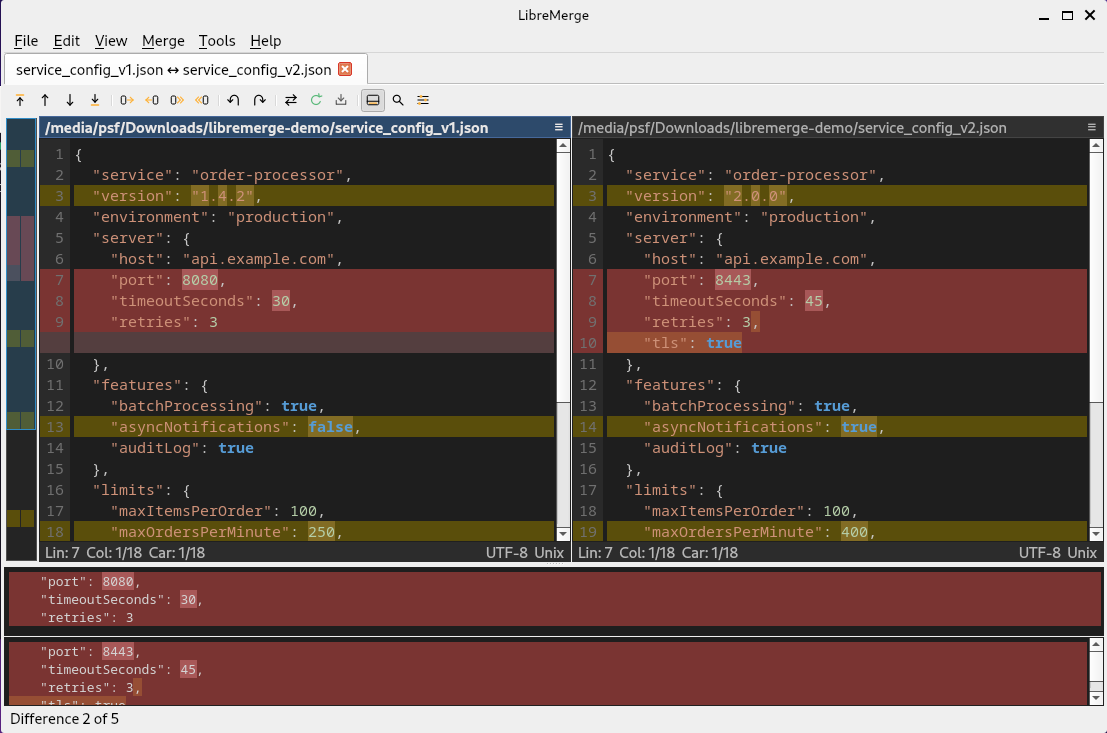
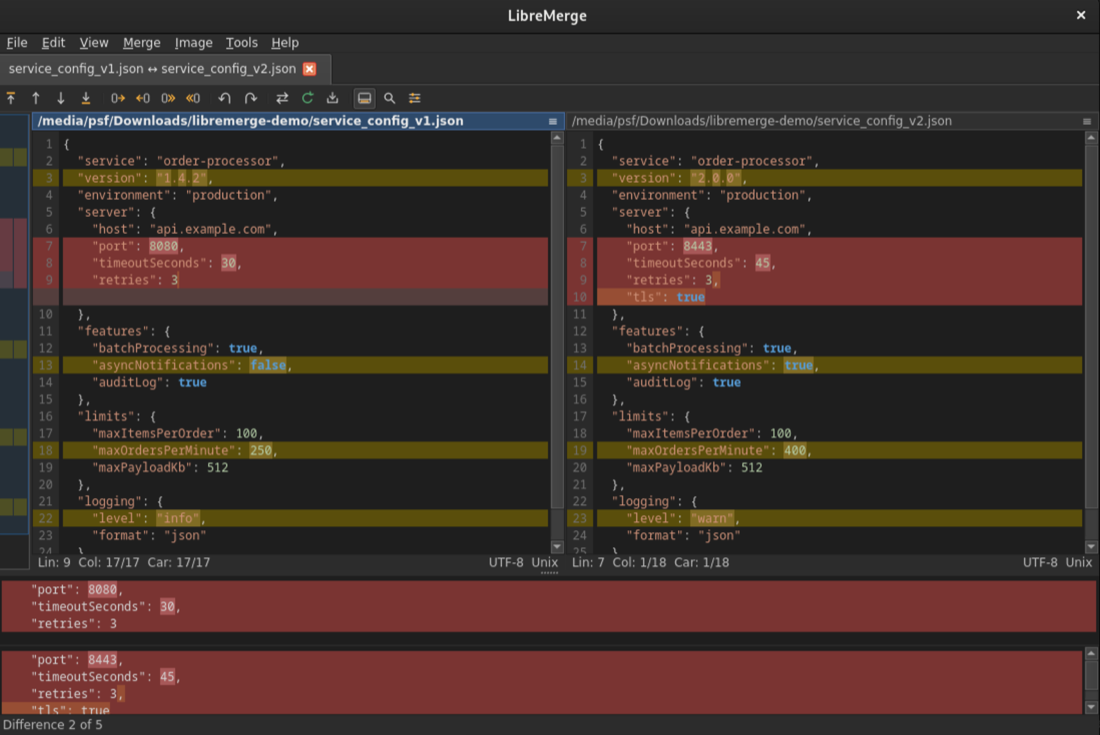
Refresh the README and the Linux screenshot for 0.9.7
- The Debian/GNOME screenshot shows the whole window dark, as the theme
  now paints it; the old one had dark panes under light menus and tabs.
- Features: the theme covers the window and follows GNOME's and KDE's
  dark style; the selection screen verifies paths, completes them and
  opens a lone file against a snapshot of itself; the Options dialog's
  General settings and Message Boxes page.
- Build dependencies gained libarchive, re2c and lemon; the engine suite
  has 383 tests; the .bak switch lives on Options > Backup Files.
- AppStream: the Linux screenshot joins the list.

diff --git a/README.md b/README.md
@@ -20,9 +20,10 @@ LibreMerge reuses the battle-tested comparison engine of [WinMerge](https://winm
 - **Line filters** (regular expressions that mark matching differences as trivial) and **moved block detection**
 - **Find and replace** in the compare panes (⌘F, wrap-around, match case)
 - **Syntax highlighting** for 47 languages, via WinMerge's own parsers
-- **Light and dark themes** (or follow the system), **English and Brazilian Portuguese** interface following the system language
-- Drag & drop files or folders onto the window or the Dock icon; a WinMerge-style "Select Files or Folders" screen with history, read-only flags and swap
+- **Light and dark themes** for the whole window, or follow the system (on Linux, the dark style of GNOME and KDE, picked up as you switch it), chosen under Options > General; **English and Brazilian Portuguese** interface following the system language
+- Drag & drop files or folders onto the window or the Dock icon; a WinMerge-style "Select Files or Folders" screen with history, paths verified as you type, auto completion, read-only flags and swap; a single file opens against a snapshot of itself, to review your own edits
 - Comparison options carried over from WinMerge: ignore whitespace/case/blank lines/EOL/numbers, diff algorithm selection (Myers, minimal, patience, histogram)
+- An **Options dialog laid out like WinMerge's**, with its General settings (close with Esc, preserve file times on save, verify paths, auto completion) and its Message Boxes page, where the "files are identical" notices can be hidden and brought back
 
 | Dark theme | Folder comparison |
 | --- | --- |
@@ -62,12 +63,12 @@ LibreMerge dirA/ dirB/                 # folder compare
 
 ## Build from source (macOS / Linux)
 
-Dependencies: a C++17 compiler, CMake ≥ 3.21, Ninja, Qt 6, POCO, ICU and Boost (headers). On macOS: `brew install cmake ninja qt poco icu4c boost googletest`. On Debian/Ubuntu see the package list in [`.github/workflows`](.github/workflows).
+Dependencies: a C++17 compiler, CMake ≥ 3.21, Ninja, Qt 6, POCO, ICU, Boost (headers), libarchive, re2c and lemon. On macOS: `brew install cmake ninja qt poco icu4c boost googletest re2c lemon libarchive`. On Debian/Ubuntu see the package list in [`.github/workflows`](.github/workflows).
 
 ```sh
 cmake -S . -B build -G Ninja
 cmake --build build
-ctest --test-dir build        # engine test suite (369 tests)
+ctest --test-dir build        # engine test suite (383 tests)
 ./build/app/LibreMerge        # (on macOS: build/app/LibreMerge.app)
 ```
 
@@ -111,7 +112,7 @@ git config --global difftool.libremerge.cmd \
 
 To use it, run `git mergetool` after a conflict: resolve it in the middle pane, save, and close the window. Two notes on the extra files you may see afterwards:
 
-- LibreMerge writes a `.bak` copy next to the file it saves, which is WinMerge's default behavior. Turn it off under Options > General if you prefer.
+- LibreMerge writes a `.bak` copy next to the file it saves, which is WinMerge's default behavior. Turn it off under Options > Backup Files if you prefer.
 - `git mergetool` itself keeps a `.orig` file unless you set `git config --global mergetool.keepBackup false`.
 
 ## Known limitations
